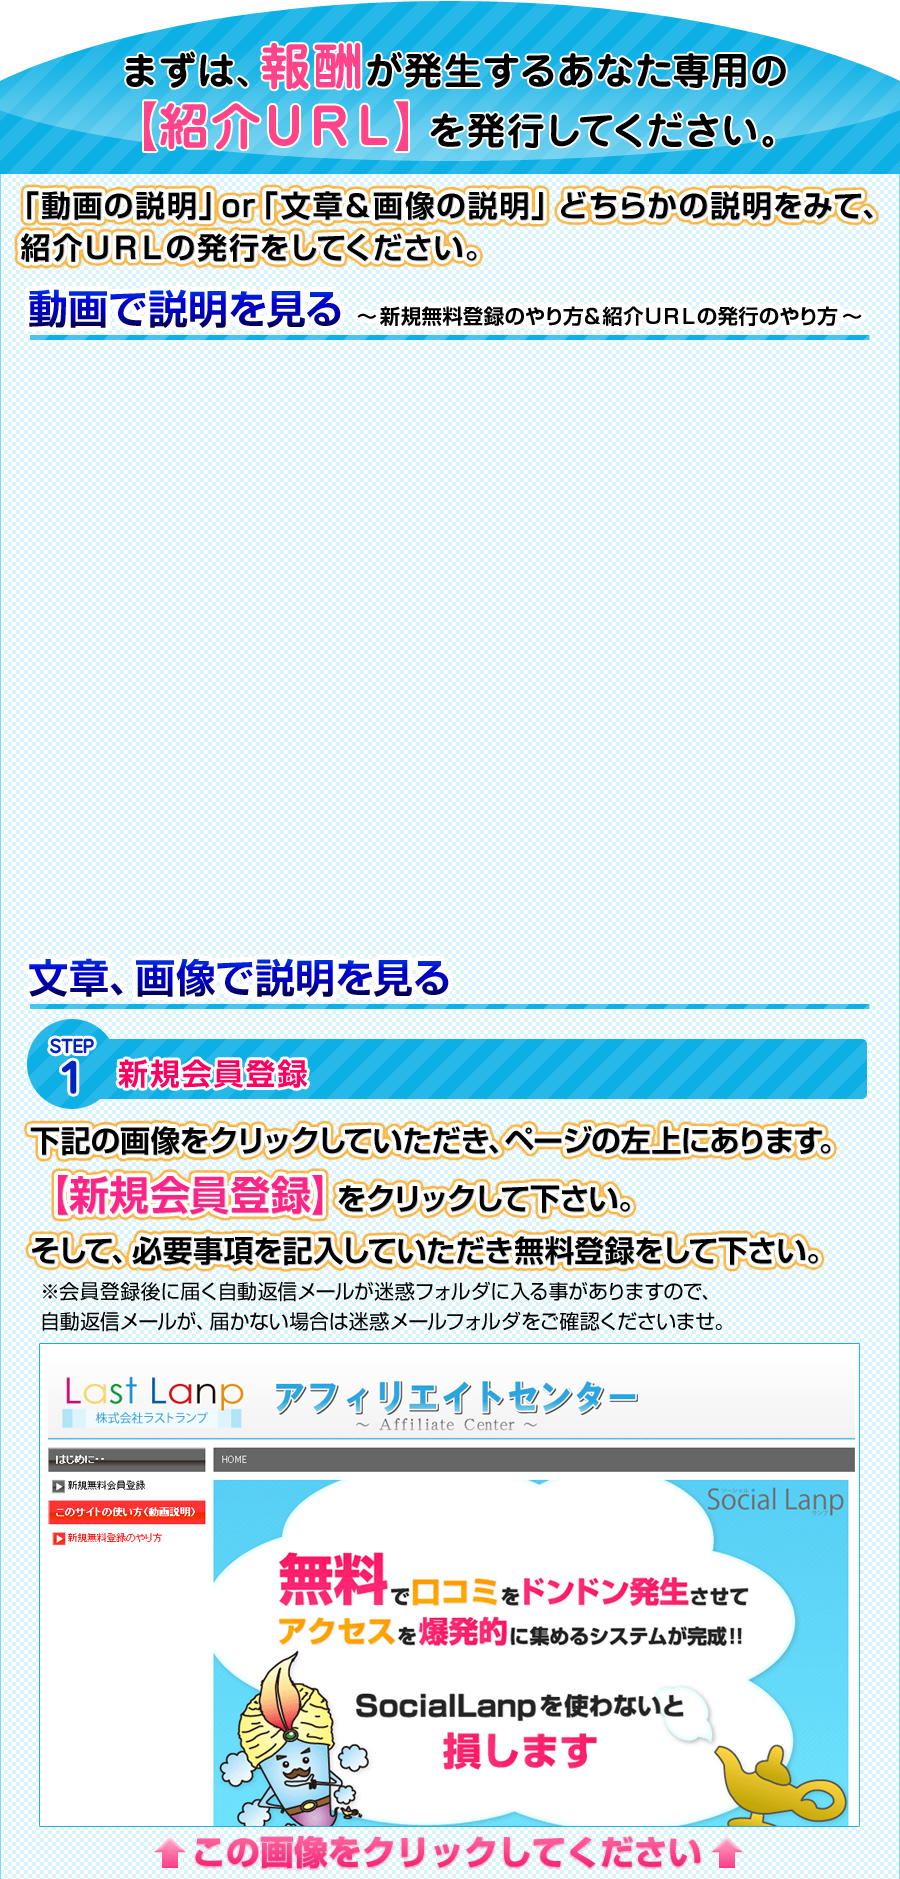
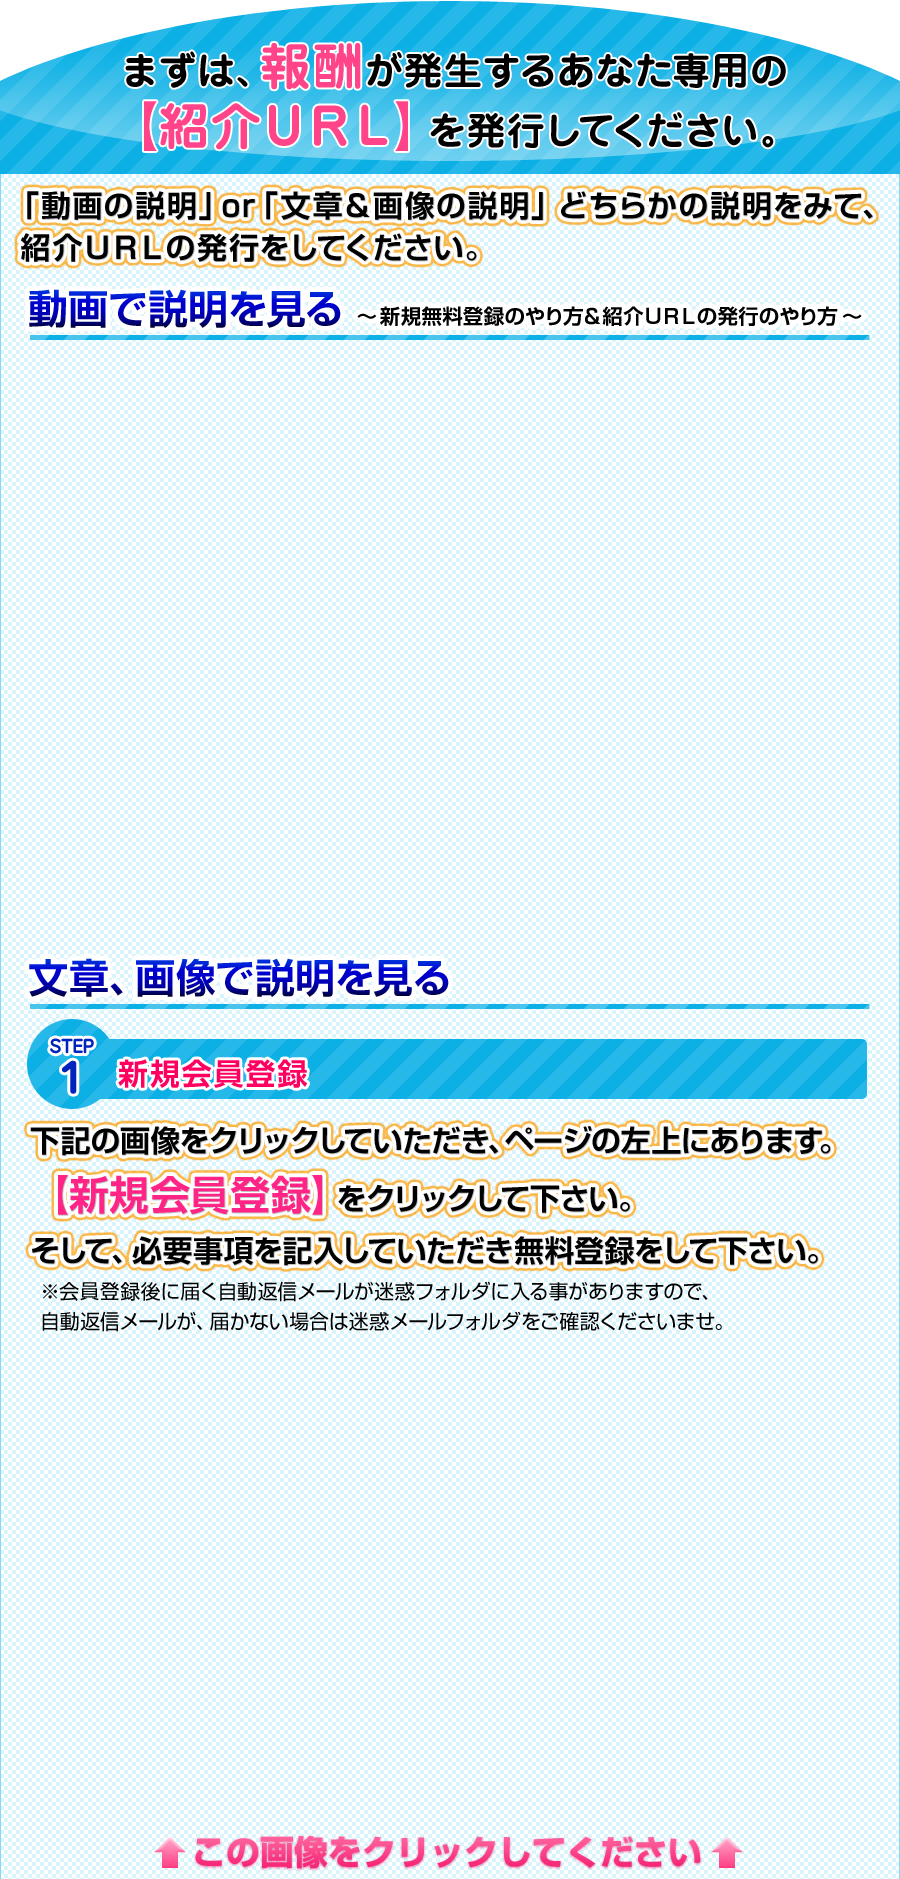
コミットテスト22:56
コミットテスト22:56

Changed region(s): [[0.0311, 0.71, 0.9644, 0.9878]]

diff --git a/thanks/index.html b/thanks/index.html
@@ -37,14 +37,7 @@ body {
 	margin: 0px;
 	padding: 0px;
 }
-a:link{
-}
-a:visited{
-}
-a:hover{
-	margin-left:2px;
-	margin-top:2px;
-}
+
 
 img{
 	border:none;
@@ -110,6 +103,11 @@ img{
 	left: 23px;
 	top: 400px;
 }
+.movie img {
+	position: absolute;
+	left: 36px;
+	bottom: 48px;
+}
 .manual {
 	background-image: url(images/thanks9.png);
 	background-repeat: no-repeat;
@@ -170,6 +168,7 @@ img{
     
 </div>
 
+
 <div class="content">
 
 	<img style="margin-bottom:40px; margin-top:20px;" src="images/thanks_03.png" alt="thanks_03" width="" height="" />
@@ -190,10 +189,11 @@ img{
 <div class="movie">
     
 	<iframe width="853" height="480" src="http://www.youtube.com/embed/xbZeNNE-hyc" frameborder="0" allowfullscreen></iframe>
+    <a href="http://lastlanp.jp/af_lastlanp/index.php" target="_blank"><img src="images/thanks6a.png" alt="thanks1" width="" height="" /></a>
 </div><!-- movie -->
 
 	<img class="mb_50" src="images/thanks8.png" alt="thanks1" width="" height="" />
-	
+
 <div class="manual">
    
     <a href="#" target="_blank"><img src="images/thanks9button_off.png" alt="thanks1" width="" height="" /></a>
